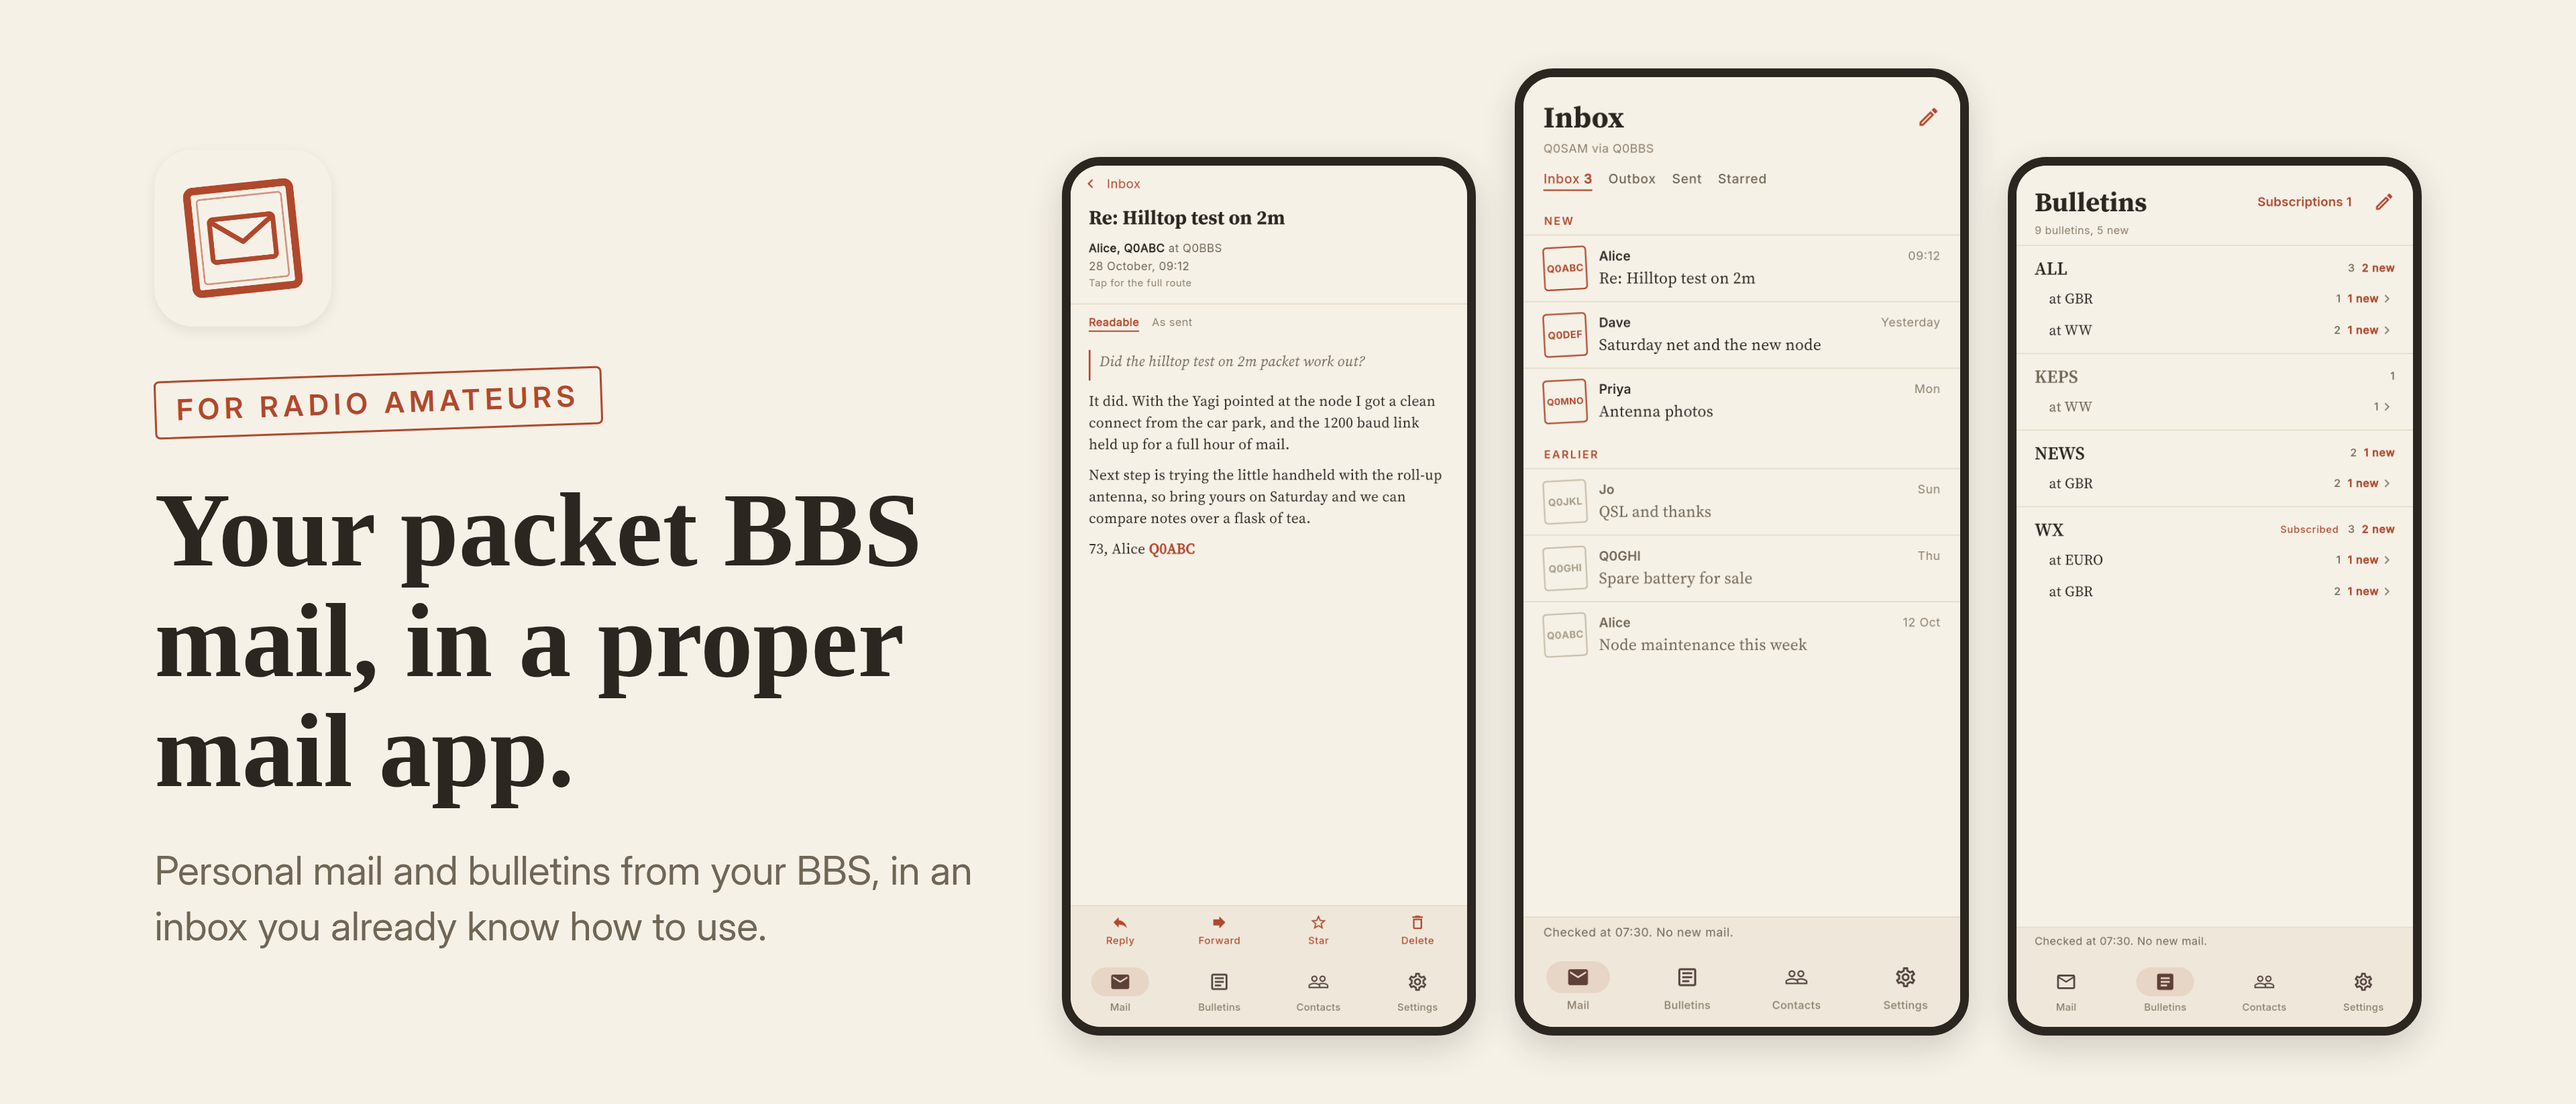
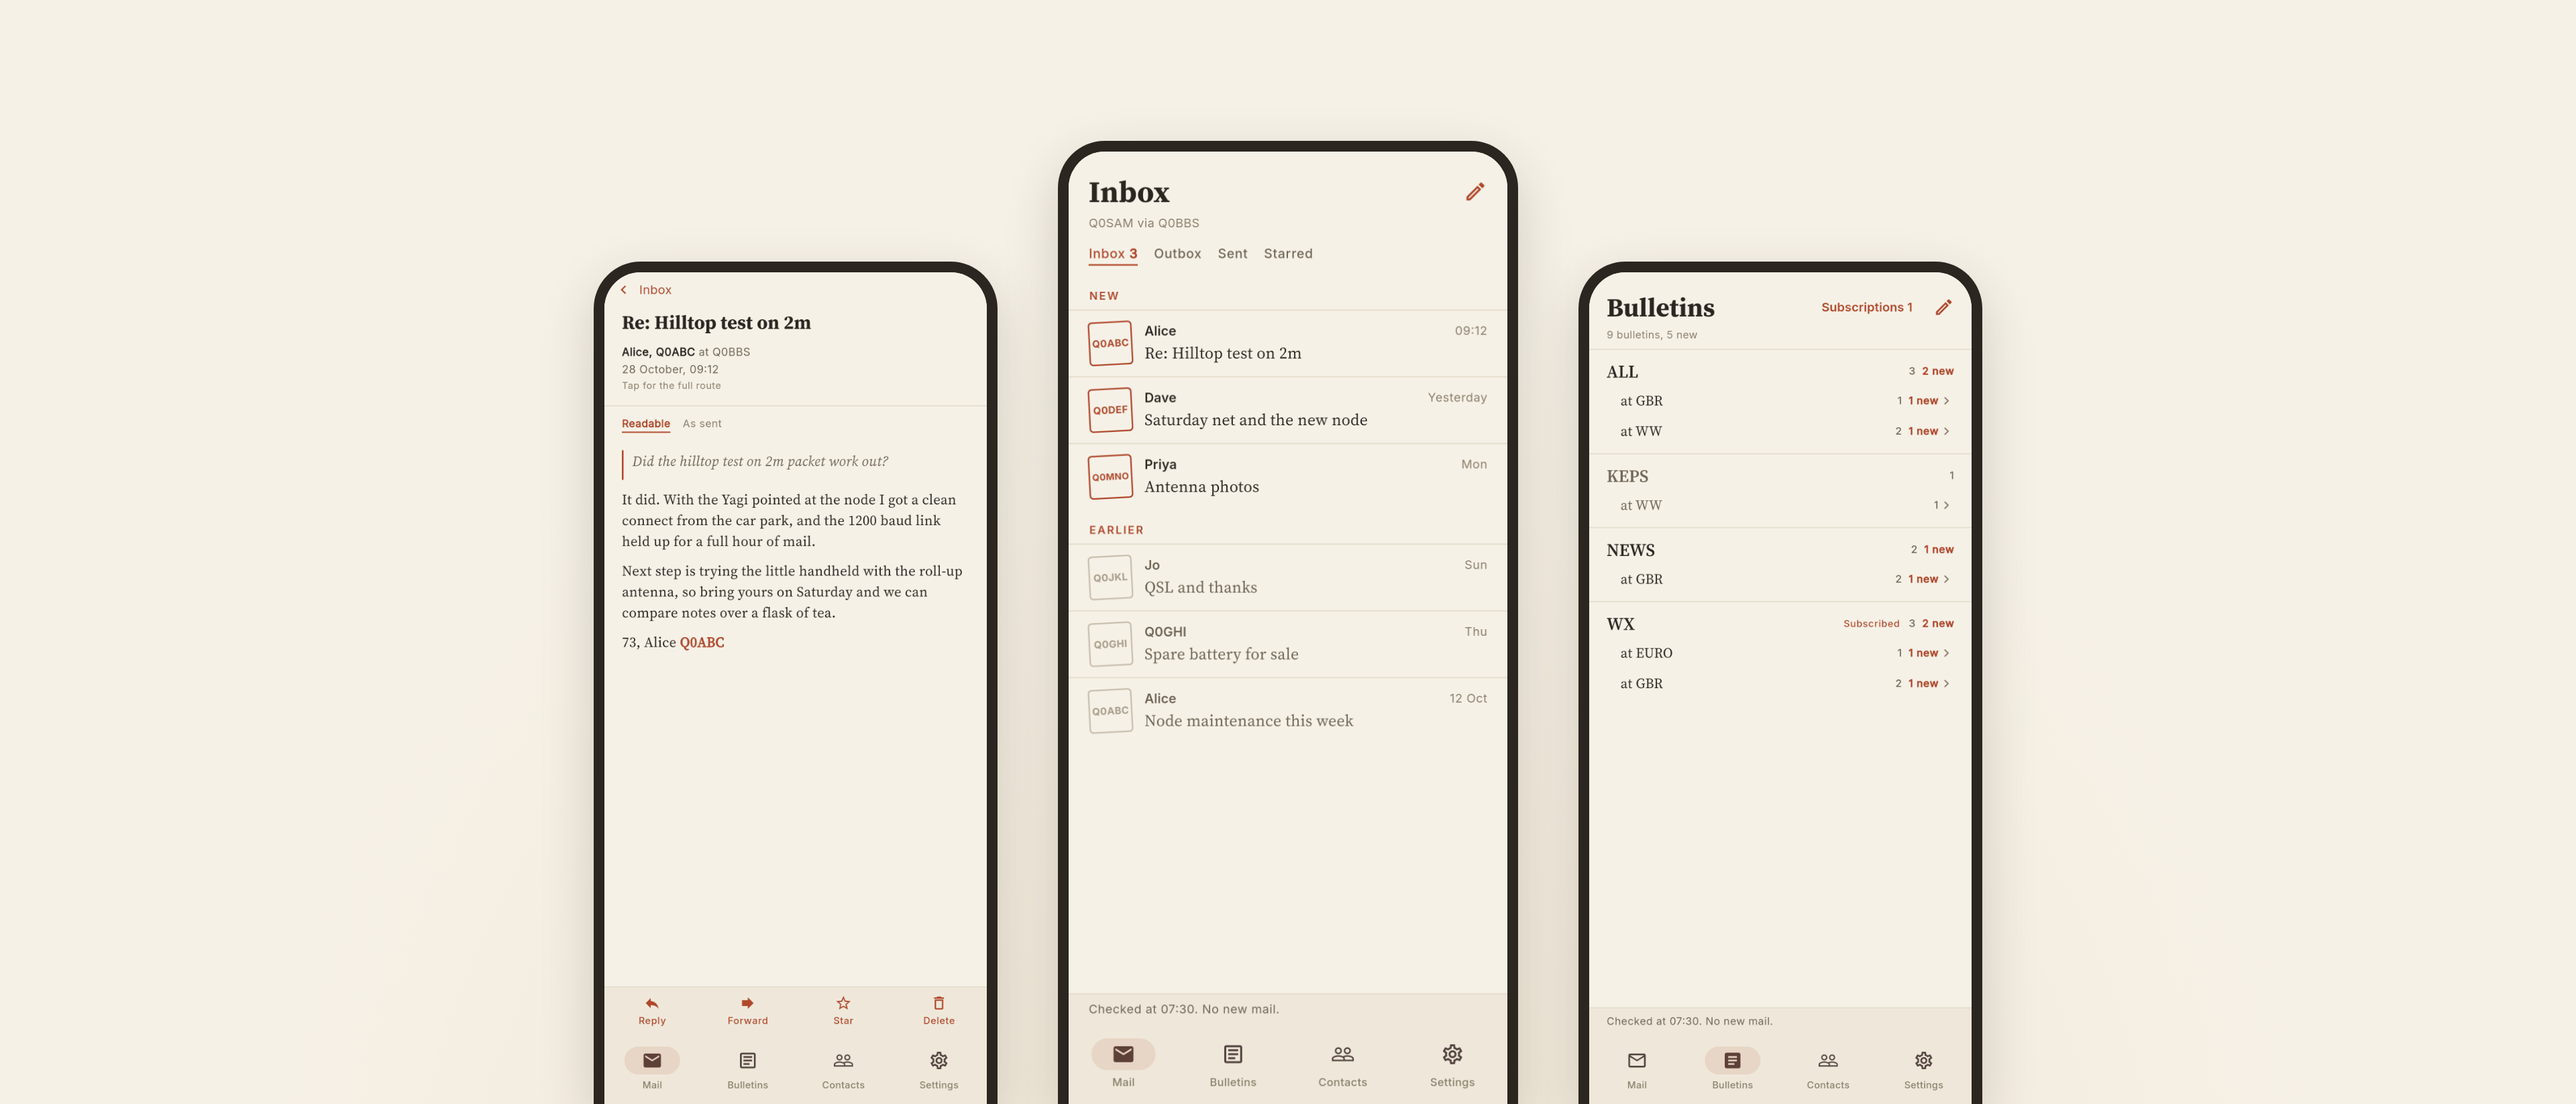
Rework the App Store header so cropping can't cut it
Apple trims the header's edges on iPhone and puts its buttons over the top corners, which cut off the headline. The header is now just the three phones, centred and rising from the bottom edge.

Refs #34.

diff --git a/docs/store/creative/header.html b/docs/store/creative/header.html
@@ -1,0 +1,9 @@
+<!doctype html><html><head><meta charset="utf-8"><style>
+html,body{margin:0;background:#F6F1E7;overflow:hidden}
+.c{width:3840px;height:1646px;display:flex;align-items:flex-end;justify-content:center;gap:90px;padding-bottom:0;box-sizing:border-box;
+ background:radial-gradient(ellipse at 50% 120%, #EFE6D4 0%, #F6F1E7 60%)}
+.c img{height:1240px;border-radius:70px 70px 0 0;border:16px solid #2B2620;border-bottom:none;box-shadow:0 30px 80px rgba(43,38,32,.18)}
+.c img.mid{height:1420px}
+</style></head><body><div class="c">
+<img src="file:///home/tf/src/packet-mail/.claude/worktrees/plan/docs/store/screenshots/1320x2868/02-message.png"><img class="mid" src="file:///home/tf/src/packet-mail/.claude/worktrees/plan/docs/store/screenshots/1320x2868/01-inbox.png"><img src="file:///home/tf/src/packet-mail/.claude/worktrees/plan/docs/store/screenshots/1320x2868/03-bulletins.png">
+</div></body></html>

diff --git a/docs/store/creative/README.md b/docs/store/creative/README.md
@@ -1,6 +1,6 @@
 # App Store product page artwork
 
-- `header-3840x1646.png`: App Store Connect, Product Page Information, Header.
+- `header-3840x1646.png`: App Store Connect, Product Page Information, Header. Phones only, centred, rendered from `header.html`: Apple crops the edges on iPhone and lays its own buttons over the top corners, so nothing important sits near an edge.
 - `search-1920x1280.png`: the same page, Search Results (optional; without it Apple uses the screenshots).
 
-Both are rendered from `banner.html` with headless Chrome, using the store screenshots in `../screenshots/1320x2868/`. The placeholders WIDTH, HEIGHT, SCALE (text size, 1 for the header, 0.62 for search) and PHONES (the screenshot img tags) are filled in before rendering at exactly the target size.
+The search banner is rendered from `banner.html` with headless Chrome, using the store screenshots in `../screenshots/1320x2868/`. The placeholders WIDTH, HEIGHT, SCALE (text size, 1 for the header, 0.62 for search) and PHONES (the screenshot img tags) are filled in before rendering at exactly the target size.
